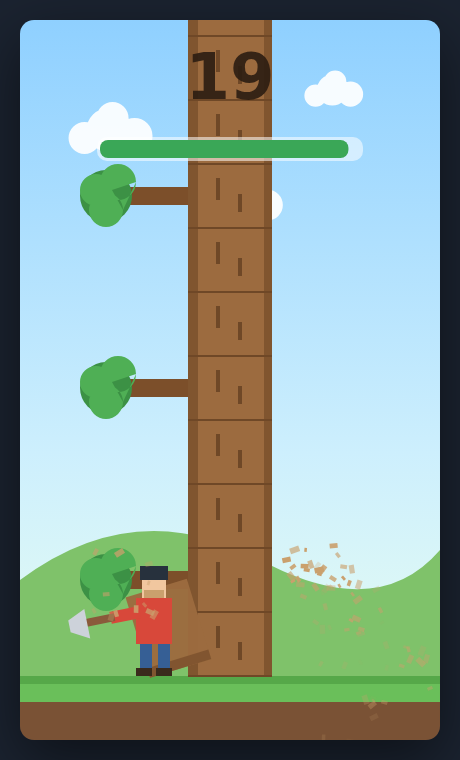
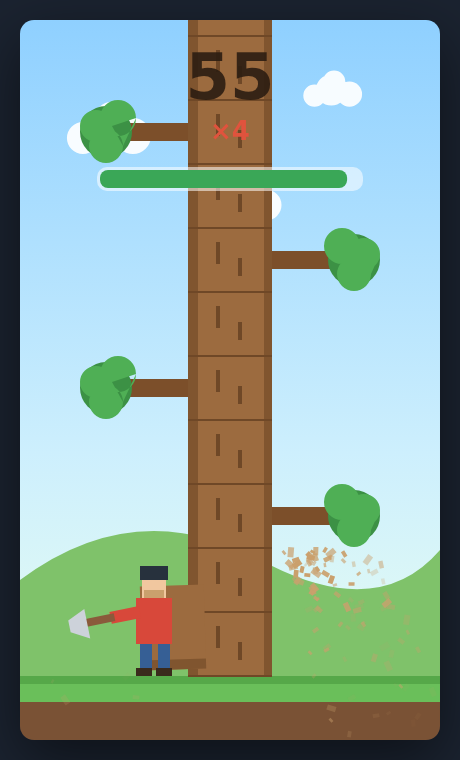
Add combo multiplier to Timber!
Sustained-rhythm chopping builds a score multiplier up to x5, with a HUD
indicator and a punch effect when it climbs. Streak resets if you pause.

diff --git a/timber/render.js b/timber/render.js
@@ -33,6 +33,8 @@ export class Renderer {
     this.chopAnim = 0;   // 1 -> 0, axe swing
     this.dropAnim = 0;   // 1 -> 0, stack settling down one notch
     this.deathFlash = 0; // 1 -> 0
+    this.comboPop = 0;   // 1 -> 0, multiplier "punch" when it climbs
+    this.lastMult = 1;
     this.facing = SIDE.LEFT;
     this.log = null;     // flying chopped log
     this.clouds = [
@@ -43,11 +45,13 @@ export class Renderer {
   }
 
   // Fired by the game on every chop.
-  onChop(side, ok) {
+  onChop(side, ok, mult = 1) {
     this.facing = side;
     this.chopAnim = 1;
     this.shake = ok ? 6 : 16;
     if (!ok) this.deathFlash = 1;
+    if (ok && mult > this.lastMult) { this.comboPop = 1; this.shake = 9; }
+    if (ok) this.lastMult = mult;
 
     // Wood chips spray out from the cut, away from the lumberjack.
     const dir = side === SIDE.LEFT ? 1 : -1;
@@ -82,6 +86,7 @@ export class Renderer {
     this.chopAnim = Math.max(0, this.chopAnim - dt * 6);
     this.dropAnim = Math.max(0, this.dropAnim - dt * 7);
     this.deathFlash = Math.max(0, this.deathFlash - dt * 2);
+    this.comboPop = Math.max(0, this.comboPop - dt * 2.5);
 
     for (const c of this.clouds) {
       c.x += c.v * dt;
@@ -322,9 +327,24 @@ export class Renderer {
       ctx.restore();
     }
 
+    // combo multiplier
+    if (game.state === 'playing') {
+      const mult = game.multiplier();
+      if (mult > 1) {
+        const pop = 1 + this.comboPop * 0.5;
+        ctx.save();
+        ctx.translate(CX, 100);
+        ctx.scale(pop, pop);
+        ctx.fillStyle = mult >= 4 ? '#e0533d' : mult >= 3 ? '#e6a52e' : '#3aa757';
+        ctx.font = 'bold 26px "Trebuchet MS", system-ui, sans-serif';
+        ctx.fillText('×' + mult, 0, 0);
+        ctx.restore();
+      }
+    }
+
     // timer bar (only while playing)
     if (game.state === 'playing') {
-      const bw = 260, bh = 18, bx = CX - bw / 2, by = 120;
+      const bw = 260, bh = 18, bx = CX - bw / 2, by = 150;
       ctx.fillStyle = 'rgba(255,255,255,0.55)';
       this._roundRect(ctx, bx - 3, by - 3, bw + 6, bh + 6, 10);
       ctx.fill();

diff --git a/timber/game.js b/timber/game.js
@@ -17,6 +17,7 @@ export class Game {
     this.segments = [];
     this.score = 0;
     this.combo = 0;
+    this.comboWindow = 0;      // time left to keep the streak alive
     this.timer = 0.6;
     this.side = SIDE.LEFT;     // which side the lumberjack stands on
     this.state = 'ready';      // 'ready' | 'playing' | 'over'
@@ -45,6 +46,11 @@ export class Game {
 
   _branchChance() {
     return Math.min(0.42 + this.score * 0.004, 0.7);
+  }
+
+  // Chopping in a sustained rhythm builds a score multiplier (caps at x5).
+  multiplier() {
+    return Math.min(1 + Math.floor(this.combo / 6), 5);
   }
 
   // A new top block. Never two branched blocks in a row -> always solvable.
@@ -76,17 +82,23 @@ export class Game {
     const top = this.segments[this.segments.length - 1];
     this.segments.push(this._spawnSegment(top));
 
-    this.score += 1;
     this.combo += 1;
+    this.comboWindow = 1.1;
+    const mult = this.multiplier();
+    this.score += mult;
     const refill = TIMER_REFILL * (1 - Math.min(this.score, 150) / 260);
     this.timer = Math.min(TIMER_MAX, this.timer + refill);
 
-    this.onChop?.(side, true);
+    this.onChop?.(side, true, mult);
     return true;
   }
 
   update(dt) {
     if (this.state !== 'playing') return;
+    if (this.comboWindow > 0) {
+      this.comboWindow -= dt;
+      if (this.comboWindow <= 0) this.combo = 0; // lost the rhythm
+    }
     this.timer -= this._drainRate() * dt;
     if (this.timer <= 0) {
       this.timer = 0;

diff --git a/timber/main.js b/timber/main.js
@@ -29,6 +29,8 @@ function startGame() {
   game.start();
   renderer.log = null;
   renderer.chips = [];
+  renderer.lastMult = 1;
+  renderer.comboPop = 0;
   overlay.classList.add('hidden');
   gameover.classList.add('hidden');
 }

diff --git a/timber/README.md b/timber/README.md
@@ -18,7 +18,10 @@ chop, so hesitation kills as surely as a misjudged branch.
 | Chop right | `D` / `→` | tap the right half of the screen |
 | Start / retry | `Space` / `Enter` / click | tap |
 
-- **+1** per chop, and the timer refills a little.
+- Each chop scores points and refills the timer a little.
+- **Combo multiplier:** keep chopping in a steady rhythm to build a streak —
+  the multiplier climbs to **×5**, so points come fastest when you stay calm and
+  keep the axe swinging. Pause too long and the streak resets.
 - A branch on **your** side when you chop = **squashed**.
 - Let the timer empty = **time's up**.
 - Difficulty ramps with your score: the timer drains faster, refills less, and
